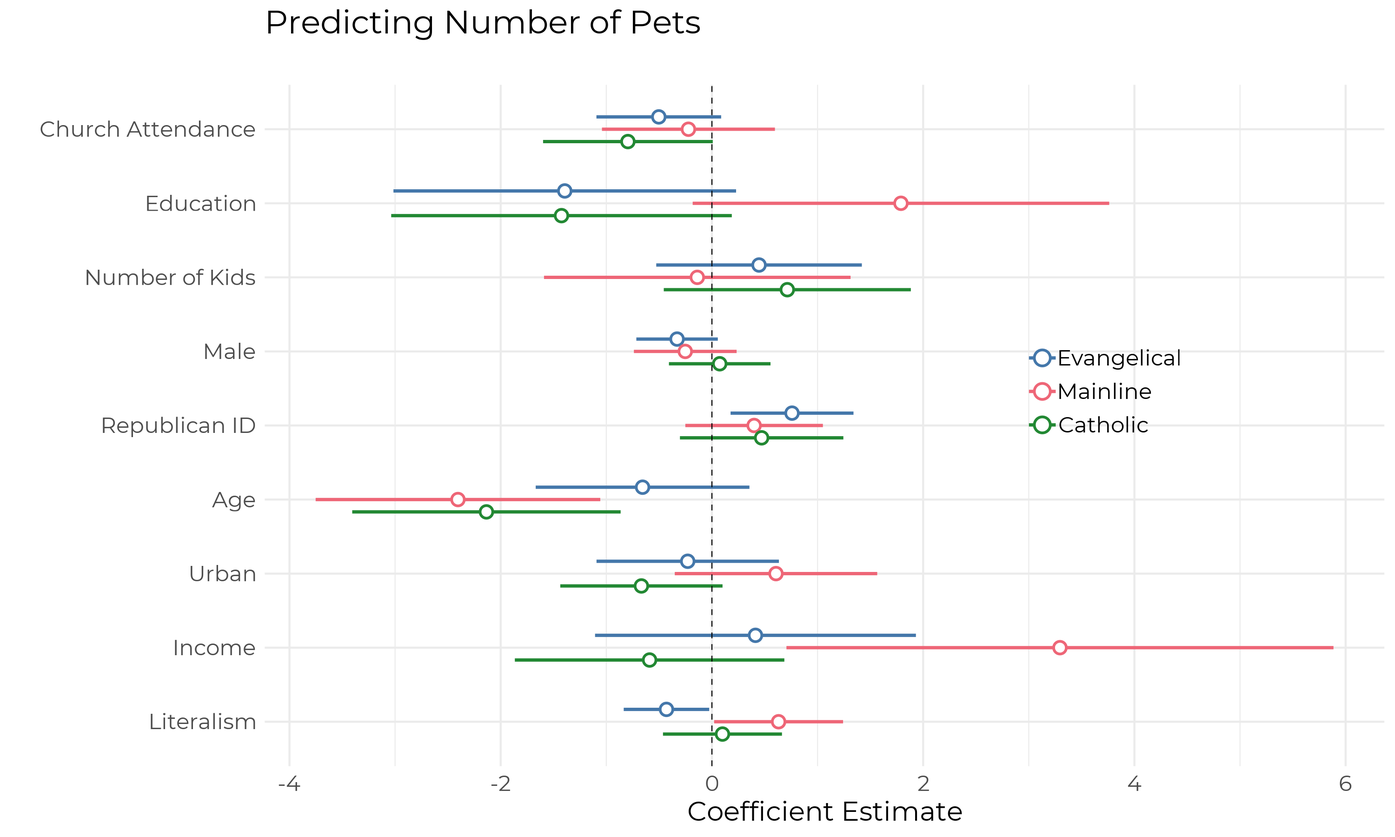
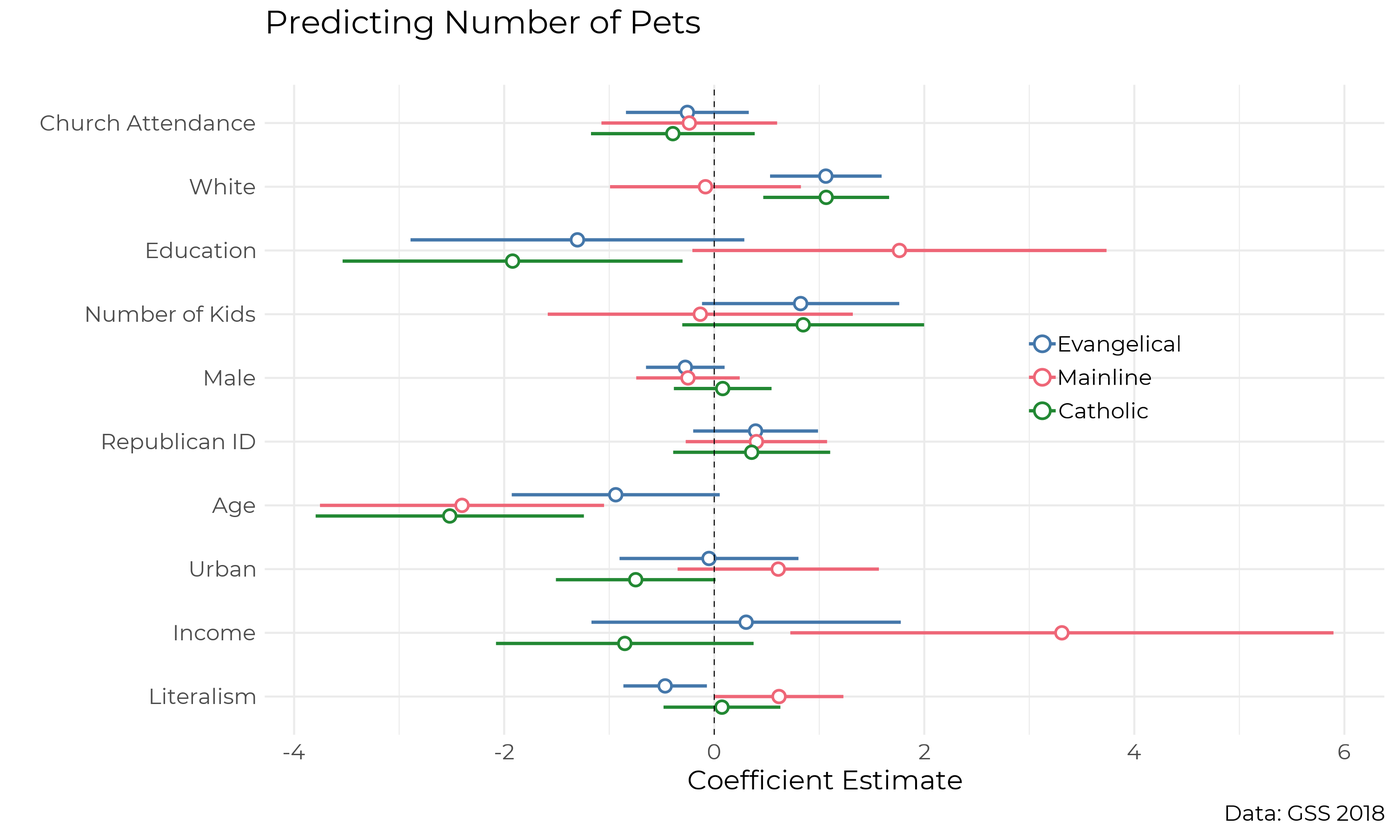
pushing updates.

diff --git a/images/fig3.htm b/images/fig3.htm
@@ -4,56 +4,59 @@
 <tr><td></td><td colspan="5" style="border-bottom: 1px solid black"></td></tr>
 <tr><td style="text-align:left"></td><td>Cat</td><td>Dog</td><td>Horse</td><td>Fish</td><td>Pig</td></tr>
 <tr><td style="text-align:left"></td><td>(1)</td><td>(2)</td><td>(3)</td><td>(4)</td><td>(5)</td></tr>
-<tr><td colspan="6" style="border-bottom: 1px solid black"></td></tr><tr><td style="text-align:left">Church Attendance</td><td>-0.903<sup>*</sup></td><td>-0.033</td><td>0.114</td><td>-0.512</td><td>-0.636</td></tr>
-<tr><td style="text-align:left"></td><td>(0.365)</td><td>(0.410)</td><td>(1.347)</td><td>(0.828)</td><td>(4.419)</td></tr>
+<tr><td colspan="6" style="border-bottom: 1px solid black"></td></tr><tr><td style="text-align:left">Church Attendance</td><td>-0.786<sup>*</sup></td><td>-0.061</td><td>-0.018</td><td>-0.362</td><td>-0.462</td></tr>
+<tr><td style="text-align:left"></td><td>(0.371)</td><td>(0.417)</td><td>(1.432)</td><td>(0.845)</td><td>(5.266)</td></tr>
 <tr><td style="text-align:left"></td><td></td><td></td><td></td><td></td><td></td></tr>
-<tr><td style="text-align:left">Male</td><td>-0.058</td><td>-0.556<sup>*</sup></td><td>-1.942<sup>*</sup></td><td>-0.079</td><td>20.494</td></tr>
-<tr><td style="text-align:left"></td><td>(0.201)</td><td>(0.228)</td><td>(0.938)</td><td>(0.465)</td><td>(10,363.820)</td></tr>
+<tr><td style="text-align:left">White</td><td>0.577</td><td>-0.136</td><td>-0.382</td><td>0.693</td><td>21.069</td></tr>
+<tr><td style="text-align:left"></td><td>(0.309)</td><td>(0.347)</td><td>(1.372)</td><td>(0.782)</td><td>(15,315.640)</td></tr>
 <tr><td style="text-align:left"></td><td></td><td></td><td></td><td></td><td></td></tr>
-<tr><td style="text-align:left">Income</td><td>0.659</td><td>1.200</td><td>8.409</td><td>6.687</td><td>191.574</td></tr>
-<tr><td style="text-align:left"></td><td>(0.644)</td><td>(0.670)</td><td>(10.072)</td><td>(3.687)</td><td>(59,818.290)</td></tr>
+<tr><td style="text-align:left">Male</td><td>-0.055</td><td>-0.558<sup>*</sup></td><td>-1.998<sup>*</sup></td><td>-0.095</td><td>20.702</td></tr>
+<tr><td style="text-align:left"></td><td>(0.201)</td><td>(0.228)</td><td>(0.969)</td><td>(0.466)</td><td>(9,301.275)</td></tr>
 <tr><td style="text-align:left"></td><td></td><td></td><td></td><td></td><td></td></tr>
-<tr><td style="text-align:left">Republican ID</td><td>0.159</td><td>0.111</td><td>3.567<sup>*</sup></td><td>1.110</td><td>1.359</td></tr>
-<tr><td style="text-align:left"></td><td>(0.317)</td><td>(0.354)</td><td>(1.518)</td><td>(0.768)</td><td>(3.235)</td></tr>
+<tr><td style="text-align:left">Income</td><td>0.542</td><td>1.229</td><td>8.065</td><td>6.758</td><td>198.136</td></tr>
+<tr><td style="text-align:left"></td><td>(0.651)</td><td>(0.675)</td><td>(9.953)</td><td>(3.767)</td><td>(55,976.260)</td></tr>
 <tr><td style="text-align:left"></td><td></td><td></td><td></td><td></td><td></td></tr>
-<tr><td style="text-align:left">Number of Kids</td><td>-0.097</td><td>0.891</td><td>5.712<sup>*</sup></td><td>1.362</td><td>-1.994</td></tr>
-<tr><td style="text-align:left"></td><td>(0.518)</td><td>(0.601)</td><td>(1.965)</td><td>(1.063)</td><td>(6.331)</td></tr>
+<tr><td style="text-align:left">Republican ID</td><td>0.051</td><td>0.132</td><td>3.611<sup>*</sup></td><td>0.947</td><td>-1.005</td></tr>
+<tr><td style="text-align:left"></td><td>(0.324)</td><td>(0.358)</td><td>(1.512)</td><td>(0.793)</td><td>(4.109)</td></tr>
 <tr><td style="text-align:left"></td><td></td><td></td><td></td><td></td><td></td></tr>
-<tr><td style="text-align:left">Age</td><td>0.273</td><td>-0.495</td><td>-4.864</td><td>-2.976<sup>*</sup></td><td>-5.249</td></tr>
-<tr><td style="text-align:left"></td><td>(0.587)</td><td>(0.666)</td><td>(3.066)</td><td>(1.489)</td><td>(6.010)</td></tr>
+<tr><td style="text-align:left">Number of Kids</td><td>-0.008</td><td>0.872</td><td>5.620<sup>*</sup></td><td>1.408</td><td>-2.560</td></tr>
+<tr><td style="text-align:left"></td><td>(0.525)</td><td>(0.603)</td><td>(1.992)</td><td>(1.075)</td><td>(7.070)</td></tr>
 <tr><td style="text-align:left"></td><td></td><td></td><td></td><td></td><td></td></tr>
-<tr><td style="text-align:left">Education</td><td>1.235</td><td>-2.364<sup>*</sup></td><td>5.047</td><td>-3.434</td><td>-5.157</td></tr>
-<tr><td style="text-align:left"></td><td>(0.775)</td><td>(0.884)</td><td>(3.595)</td><td>(1.763)</td><td>(8.512)</td></tr>
+<tr><td style="text-align:left">Age</td><td>0.157</td><td>-0.469</td><td>-4.799</td><td>-3.075<sup>*</sup></td><td>-6.201</td></tr>
+<tr><td style="text-align:left"></td><td>(0.594)</td><td>(0.669)</td><td>(3.076)</td><td>(1.501)</td><td>(6.433)</td></tr>
 <tr><td style="text-align:left"></td><td></td><td></td><td></td><td></td><td></td></tr>
-<tr><td style="text-align:left">Urban</td><td>-0.448</td><td>-0.832<sup>*</sup></td><td>-17.926</td><td>-0.129</td><td>-19.995</td></tr>
-<tr><td style="text-align:left"></td><td>(0.371)</td><td>(0.369)</td><td>(3,253.649)</td><td>(0.807)</td><td>(23,404.170)</td></tr>
+<tr><td style="text-align:left">Education</td><td>1.047</td><td>-2.325<sup>*</sup></td><td>5.170</td><td>-3.732<sup>*</sup></td><td>-9.372</td></tr>
+<tr><td style="text-align:left"></td><td>(0.788)</td><td>(0.891)</td><td>(3.631)</td><td>(1.839)</td><td>(9.994)</td></tr>
 <tr><td style="text-align:left"></td><td></td><td></td><td></td><td></td><td></td></tr>
-<tr><td style="text-align:left">Literalism</td><td>-0.503</td><td>0.279</td><td>-3.428<sup>*</sup></td><td>0.155</td><td>2.083</td></tr>
-<tr><td style="text-align:left"></td><td>(0.263)</td><td>(0.306)</td><td>(1.288)</td><td>(0.573)</td><td>(1.968)</td></tr>
+<tr><td style="text-align:left">Urban</td><td>-0.381</td><td>-0.849<sup>*</sup></td><td>-18.101</td><td>-0.032</td><td>-19.828</td></tr>
+<tr><td style="text-align:left"></td><td>(0.374)</td><td>(0.372)</td><td>(3,228.759)</td><td>(0.817)</td><td>(21,940.710)</td></tr>
 <tr><td style="text-align:left"></td><td></td><td></td><td></td><td></td><td></td></tr>
-<tr><td style="text-align:left">Mainline</td><td>0.390</td><td>-0.943<sup>*</sup></td><td>-1.368</td><td>0.171</td><td>-19.691</td></tr>
-<tr><td style="text-align:left"></td><td>(0.310)</td><td>(0.344)</td><td>(1.015)</td><td>(0.743)</td><td>(19,884.290)</td></tr>
+<tr><td style="text-align:left">Literalism</td><td>-0.481</td><td>0.277</td><td>-3.444<sup>*</sup></td><td>0.160</td><td>2.438</td></tr>
+<tr><td style="text-align:left"></td><td>(0.265)</td><td>(0.306)</td><td>(1.289)</td><td>(0.578)</td><td>(2.306)</td></tr>
 <tr><td style="text-align:left"></td><td></td><td></td><td></td><td></td><td></td></tr>
-<tr><td style="text-align:left">Black Prot.</td><td>-1.193</td><td>0.092</td><td>-16.662</td><td>0.638</td><td>-18.279</td></tr>
-<tr><td style="text-align:left"></td><td>(0.672)</td><td>(0.640)</td><td>(5,120.211)</td><td>(1.184)</td><td>(34,581.710)</td></tr>
+<tr><td style="text-align:left">Mainline</td><td>0.367</td><td>-0.936<sup>*</sup></td><td>-1.367</td><td>0.154</td><td>-20.100</td></tr>
+<tr><td style="text-align:left"></td><td>(0.311)</td><td>(0.345)</td><td>(1.015)</td><td>(0.743)</td><td>(18,910.230)</td></tr>
 <tr><td style="text-align:left"></td><td></td><td></td><td></td><td></td><td></td></tr>
-<tr><td style="text-align:left">Catholic</td><td>-0.793<sup>*</sup></td><td>0.138</td><td>-2.259</td><td>-0.797</td><td>1.290</td></tr>
-<tr><td style="text-align:left"></td><td>(0.325)</td><td>(0.392)</td><td>(1.199)</td><td>(0.845)</td><td>(1.921)</td></tr>
+<tr><td style="text-align:left">Black Prot.</td><td>-0.768</td><td>-0.008</td><td>-16.946</td><td>1.143</td><td>1.865</td></tr>
+<tr><td style="text-align:left"></td><td>(0.709)</td><td>(0.689)</td><td>(5,131.271)</td><td>(1.329)</td><td>(34,047.780)</td></tr>
 <tr><td style="text-align:left"></td><td></td><td></td><td></td><td></td><td></td></tr>
-<tr><td style="text-align:left">Jewish</td><td>-15.751</td><td>-1.246</td><td>-19.980</td><td>-13.361</td><td>-17.525</td></tr>
-<tr><td style="text-align:left"></td><td>(572.637)</td><td>(0.893)</td><td>(10,726.740)</td><td>(923.204)</td><td>(73,723.720)</td></tr>
+<tr><td style="text-align:left">Catholic</td><td>-0.760<sup>*</sup></td><td>0.131</td><td>-2.273</td><td>-0.714</td><td>1.271</td></tr>
+<tr><td style="text-align:left"></td><td>(0.327)</td><td>(0.392)</td><td>(1.202)</td><td>(0.849)</td><td>(2.075)</td></tr>
 <tr><td style="text-align:left"></td><td></td><td></td><td></td><td></td><td></td></tr>
-<tr><td style="text-align:left">Other Faith</td><td>0.330</td><td>-0.971<sup>*</sup></td><td>-20.730</td><td>1.308</td><td>-19.183</td></tr>
-<tr><td style="text-align:left"></td><td>(0.439)</td><td>(0.470)</td><td>(4,045.551)</td><td>(0.802)</td><td>(30,050.890)</td></tr>
+<tr><td style="text-align:left">Jewish</td><td>-15.765</td><td>-1.240</td><td>-19.939</td><td>-13.403</td><td>-18.039</td></tr>
+<tr><td style="text-align:left"></td><td>(575.951)</td><td>(0.893)</td><td>(10,746.680)</td><td>(918.449)</td><td>(70,574.390)</td></tr>
 <tr><td style="text-align:left"></td><td></td><td></td><td></td><td></td><td></td></tr>
-<tr><td style="text-align:left">No Religion</td><td>-0.131</td><td>-0.221</td><td>-18.558</td><td>-0.093</td><td>-20.268</td></tr>
-<tr><td style="text-align:left"></td><td>(0.306)</td><td>(0.367)</td><td>(2,124.422)</td><td>(0.670)</td><td>(13,834.440)</td></tr>
+<tr><td style="text-align:left">Other Faith</td><td>0.346</td><td>-0.972<sup>*</sup></td><td>-20.625</td><td>1.330</td><td>-20.415</td></tr>
+<tr><td style="text-align:left"></td><td>(0.442)</td><td>(0.470)</td><td>(4,076.645)</td><td>(0.807)</td><td>(28,206.320)</td></tr>
 <tr><td style="text-align:left"></td><td></td><td></td><td></td><td></td><td></td></tr>
-<tr><td style="text-align:left">Constant</td><td>-1.370</td><td>2.231<sup>*</sup></td><td>-14.593</td><td>-6.401</td><td>-211.531</td></tr>
-<tr><td style="text-align:left"></td><td>(0.839)</td><td>(0.926)</td><td>(9.975)</td><td>(3.729)</td><td>(60,709.410)</td></tr>
+<tr><td style="text-align:left">No Religion</td><td>-0.058</td><td>-0.237</td><td>-18.638</td><td>-0.031</td><td>-20.220</td></tr>
+<tr><td style="text-align:left"></td><td>(0.310)</td><td>(0.370)</td><td>(2,122.194)</td><td>(0.674)</td><td>(13,204.500)</td></tr>
+<tr><td style="text-align:left"></td><td></td><td></td><td></td><td></td><td></td></tr>
+<tr><td style="text-align:left">Constant</td><td>-1.607</td><td>2.289<sup>*</sup></td><td>-13.953</td><td>-6.833</td><td>-234.551</td></tr>
+<tr><td style="text-align:left"></td><td>(0.857)</td><td>(0.939)</td><td>(10.047)</td><td>(3.857)</td><td>(58,774.290)</td></tr>
 <tr><td style="text-align:left"></td><td></td><td></td><td></td><td></td><td></td></tr>
 <tr><td colspan="6" style="border-bottom: 1px solid black"></td></tr><tr><td style="text-align:left">Observations</td><td>491</td><td>491</td><td>491</td><td>491</td><td>491</td></tr>
-<tr><td style="text-align:left">Log Likelihood</td><td>-305.614</td><td>-253.017</td><td>-28.988</td><td>-84.706</td><td>-7.358</td></tr>
-<tr><td style="text-align:left">Akaike Inf. Crit.</td><td>643.228</td><td>538.034</td><td>89.976</td><td>201.413</td><td>46.716</td></tr>
+<tr><td style="text-align:left">Log Likelihood</td><td>-303.809</td><td>-252.940</td><td>-28.951</td><td>-84.265</td><td>-6.629</td></tr>
+<tr><td style="text-align:left">Akaike Inf. Crit.</td><td>641.618</td><td>539.880</td><td>91.901</td><td>202.529</td><td>47.259</td></tr>
 <tr><td colspan="6" style="border-bottom: 1px solid black"></td></tr><tr><td style="text-align:left"><em>Note:</em></td><td colspan="5" style="text-align:right"><sup>*</sup>p<0.05; <sup>**</sup>p<[0.**]; <sup>***</sup>p<[0.***]</td></tr>
 </table>

diff --git a/images/fig1.htm b/images/fig1.htm
@@ -3,57 +3,60 @@
 <tr><td colspan="2" style="border-bottom: 1px solid black"></td></tr><tr><td style="text-align:left"></td><td><em>Dependent variable:</em></td></tr>
 <tr><td></td><td colspan="1" style="border-bottom: 1px solid black"></td></tr>
 <tr><td style="text-align:left"></td><td>Predicting Number of Pets</td></tr>
-<tr><td colspan="2" style="border-bottom: 1px solid black"></td></tr><tr><td style="text-align:left">Church Attendance</td><td>-0.552<sup>*</sup></td></tr>
-<tr><td style="text-align:left"></td><td>(0.177)</td></tr>
+<tr><td colspan="2" style="border-bottom: 1px solid black"></td></tr><tr><td style="text-align:left">Church Attendance</td><td>-0.351<sup>*</sup></td></tr>
+<tr><td style="text-align:left"></td><td>(0.175)</td></tr>
 <tr><td style="text-align:left"></td><td></td></tr>
-<tr><td style="text-align:left">Male</td><td>-0.131</td></tr>
-<tr><td style="text-align:left"></td><td>(0.101)</td></tr>
+<tr><td style="text-align:left">White</td><td>0.786<sup>*</sup></td></tr>
+<tr><td style="text-align:left"></td><td>(0.137)</td></tr>
 <tr><td style="text-align:left"></td><td></td></tr>
-<tr><td style="text-align:left">Income</td><td>0.842<sup>*</sup></td></tr>
-<tr><td style="text-align:left"></td><td>(0.296)</td></tr>
+<tr><td style="text-align:left">Male</td><td>-0.127</td></tr>
+<tr><td style="text-align:left"></td><td>(0.100)</td></tr>
 <tr><td style="text-align:left"></td><td></td></tr>
-<tr><td style="text-align:left">Republican ID</td><td>0.591<sup>*</sup></td></tr>
+<tr><td style="text-align:left">Income</td><td>0.640<sup>*</sup></td></tr>
+<tr><td style="text-align:left"></td><td>(0.291)</td></tr>
+<tr><td style="text-align:left"></td><td></td></tr>
+<tr><td style="text-align:left">Republican ID</td><td>0.460<sup>*</sup></td></tr>
 <tr><td style="text-align:left"></td><td>(0.163)</td></tr>
 <tr><td style="text-align:left"></td><td></td></tr>
-<tr><td style="text-align:left">Number of Kids</td><td>0.711<sup>*</sup></td></tr>
-<tr><td style="text-align:left"></td><td>(0.266)</td></tr>
+<tr><td style="text-align:left">Number of Kids</td><td>0.817<sup>*</sup></td></tr>
+<tr><td style="text-align:left"></td><td>(0.262)</td></tr>
 <tr><td style="text-align:left"></td><td></td></tr>
-<tr><td style="text-align:left">Age</td><td>-1.051<sup>*</sup></td></tr>
-<tr><td style="text-align:left"></td><td>(0.282)</td></tr>
+<tr><td style="text-align:left">Age</td><td>-1.199<sup>*</sup></td></tr>
+<tr><td style="text-align:left"></td><td>(0.281)</td></tr>
 <tr><td style="text-align:left"></td><td></td></tr>
-<tr><td style="text-align:left">Education</td><td>-0.889<sup>*</sup></td></tr>
-<tr><td style="text-align:left"></td><td>(0.378)</td></tr>
+<tr><td style="text-align:left">Education</td><td>-0.947<sup>*</sup></td></tr>
+<tr><td style="text-align:left"></td><td>(0.376)</td></tr>
 <tr><td style="text-align:left"></td><td></td></tr>
-<tr><td style="text-align:left">Urban</td><td>-0.092</td></tr>
-<tr><td style="text-align:left"></td><td>(0.174)</td></tr>
+<tr><td style="text-align:left">Urban</td><td>-0.059</td></tr>
+<tr><td style="text-align:left"></td><td>(0.173)</td></tr>
 <tr><td style="text-align:left"></td><td></td></tr>
-<tr><td style="text-align:left">Literalism</td><td>-0.072</td></tr>
-<tr><td style="text-align:left"></td><td>(0.126)</td></tr>
+<tr><td style="text-align:left">Literalism</td><td>-0.004</td></tr>
+<tr><td style="text-align:left"></td><td>(0.125)</td></tr>
 <tr><td style="text-align:left"></td><td></td></tr>
-<tr><td style="text-align:left">Mainline</td><td>0.191</td></tr>
-<tr><td style="text-align:left"></td><td>(0.167)</td></tr>
+<tr><td style="text-align:left">Mainline</td><td>0.179</td></tr>
+<tr><td style="text-align:left"></td><td>(0.163)</td></tr>
 <tr><td style="text-align:left"></td><td></td></tr>
-<tr><td style="text-align:left">Black Prot.</td><td>-0.683<sup>*</sup></td></tr>
-<tr><td style="text-align:left"></td><td>(0.236)</td></tr>
+<tr><td style="text-align:left">Black Prot.</td><td>-0.096</td></tr>
+<tr><td style="text-align:left"></td><td>(0.249)</td></tr>
 <tr><td style="text-align:left"></td><td></td></tr>
-<tr><td style="text-align:left">Catholic</td><td>-0.348<sup>*</sup></td></tr>
-<tr><td style="text-align:left"></td><td>(0.156)</td></tr>
+<tr><td style="text-align:left">Catholic</td><td>-0.290</td></tr>
+<tr><td style="text-align:left"></td><td>(0.154)</td></tr>
 <tr><td style="text-align:left"></td><td></td></tr>
-<tr><td style="text-align:left">Jewish</td><td>-0.283</td></tr>
-<tr><td style="text-align:left"></td><td>(0.435)</td></tr>
+<tr><td style="text-align:left">Jewish</td><td>-0.325</td></tr>
+<tr><td style="text-align:left"></td><td>(0.428)</td></tr>
 <tr><td style="text-align:left"></td><td></td></tr>
-<tr><td style="text-align:left">Other Faith</td><td>0.069</td></tr>
-<tr><td style="text-align:left"></td><td>(0.232)</td></tr>
+<tr><td style="text-align:left">Other Faith</td><td>0.063</td></tr>
+<tr><td style="text-align:left"></td><td>(0.230)</td></tr>
 <tr><td style="text-align:left"></td><td></td></tr>
-<tr><td style="text-align:left">No Religion</td><td>-0.177</td></tr>
-<tr><td style="text-align:left"></td><td>(0.162)</td></tr>
+<tr><td style="text-align:left">No Religion</td><td>-0.051</td></tr>
+<tr><td style="text-align:left"></td><td>(0.159)</td></tr>
 <tr><td style="text-align:left"></td><td></td></tr>
-<tr><td style="text-align:left">Constant</td><td>0.878<sup>*</sup></td></tr>
-<tr><td style="text-align:left"></td><td>(0.386)</td></tr>
+<tr><td style="text-align:left">Constant</td><td>0.434</td></tr>
+<tr><td style="text-align:left"></td><td>(0.383)</td></tr>
 <tr><td style="text-align:left"></td><td></td></tr>
 <tr><td colspan="2" style="border-bottom: 1px solid black"></td></tr><tr><td style="text-align:left">Observations</td><td>845</td></tr>
-<tr><td style="text-align:left">Log Likelihood</td><td>-1,451.647</td></tr>
-<tr><td style="text-align:left">theta</td><td>0.721<sup>*</sup> (0.059)</td></tr>
-<tr><td style="text-align:left">Akaike Inf. Crit.</td><td>2,935.294</td></tr>
+<tr><td style="text-align:left">Log Likelihood</td><td>-1,436.245</td></tr>
+<tr><td style="text-align:left">theta</td><td>0.778<sup>*</sup> (0.065)</td></tr>
+<tr><td style="text-align:left">Akaike Inf. Crit.</td><td>2,906.490</td></tr>
 <tr><td colspan="2" style="border-bottom: 1px solid black"></td></tr><tr><td style="text-align:left"><em>Note:</em></td><td style="text-align:right"><sup>*</sup>p<0.05; <sup>**</sup>p<[0.**]; <sup>***</sup>p<[0.***]</td></tr>
 </table>

diff --git a/images/fig4.htm b/images/fig4.htm
@@ -3,51 +3,54 @@
 <tr><td colspan="2" style="border-bottom: 1px solid black"></td></tr><tr><td style="text-align:left"></td><td><em>Dependent variable:</em></td></tr>
 <tr><td></td><td colspan="1" style="border-bottom: 1px solid black"></td></tr>
 <tr><td style="text-align:left"></td><td>Predicting Number of Pets</td></tr>
-<tr><td colspan="2" style="border-bottom: 1px solid black"></td></tr><tr><td style="text-align:left">Church Attendance</td><td>-0.094<sup>*</sup></td></tr>
+<tr><td colspan="2" style="border-bottom: 1px solid black"></td></tr><tr><td style="text-align:left">Church Attendance</td><td>-0.076<sup>*</sup></td></tr>
 <tr><td style="text-align:left"></td><td>(0.037)</td></tr>
 <tr><td style="text-align:left"></td><td></td></tr>
-<tr><td style="text-align:left">Mainline</td><td>-0.107</td></tr>
-<tr><td style="text-align:left"></td><td>(0.300)</td></tr>
+<tr><td style="text-align:left">Mainline</td><td>-0.162</td></tr>
+<tr><td style="text-align:left"></td><td>(0.295)</td></tr>
 <tr><td style="text-align:left"></td><td></td></tr>
-<tr><td style="text-align:left">Catholic</td><td>-0.359</td></tr>
-<tr><td style="text-align:left"></td><td>(0.256)</td></tr>
+<tr><td style="text-align:left">Catholic</td><td>-0.355</td></tr>
+<tr><td style="text-align:left"></td><td>(0.254)</td></tr>
 <tr><td style="text-align:left"></td><td></td></tr>
-<tr><td style="text-align:left">Male</td><td>-0.151</td></tr>
-<tr><td style="text-align:left"></td><td>(0.131)</td></tr>
+<tr><td style="text-align:left">White</td><td>0.716<sup>*</sup></td></tr>
+<tr><td style="text-align:left"></td><td>(0.183)</td></tr>
 <tr><td style="text-align:left"></td><td></td></tr>
-<tr><td style="text-align:left">Income</td><td>0.021</td></tr>
-<tr><td style="text-align:left"></td><td>(0.423)</td></tr>
+<tr><td style="text-align:left">Male</td><td>-0.145</td></tr>
+<tr><td style="text-align:left"></td><td>(0.129)</td></tr>
 <tr><td style="text-align:left"></td><td></td></tr>
-<tr><td style="text-align:left">Republican ID</td><td>0.548<sup>*</sup></td></tr>
-<tr><td style="text-align:left"></td><td>(0.197)</td></tr>
+<tr><td style="text-align:left">Income</td><td>-0.166</td></tr>
+<tr><td style="text-align:left"></td><td>(0.417)</td></tr>
 <tr><td style="text-align:left"></td><td></td></tr>
-<tr><td style="text-align:left">Number of Kids</td><td>0.440</td></tr>
-<tr><td style="text-align:left"></td><td>(0.347)</td></tr>
+<tr><td style="text-align:left">Republican ID</td><td>0.443<sup>*</sup></td></tr>
+<tr><td style="text-align:left"></td><td>(0.200)</td></tr>
 <tr><td style="text-align:left"></td><td></td></tr>
-<tr><td style="text-align:left">Age</td><td>-1.444<sup>*</sup></td></tr>
-<tr><td style="text-align:left"></td><td>(0.351)</td></tr>
+<tr><td style="text-align:left">Number of Kids</td><td>0.570</td></tr>
+<tr><td style="text-align:left"></td><td>(0.344)</td></tr>
 <tr><td style="text-align:left"></td><td></td></tr>
-<tr><td style="text-align:left">Education</td><td>-0.813</td></tr>
+<tr><td style="text-align:left">Age</td><td>-1.568<sup>*</sup></td></tr>
+<tr><td style="text-align:left"></td><td>(0.354)</td></tr>
+<tr><td style="text-align:left"></td><td></td></tr>
+<tr><td style="text-align:left">Education</td><td>-0.833</td></tr>
 <tr><td style="text-align:left"></td><td>(0.506)</td></tr>
 <tr><td style="text-align:left"></td><td></td></tr>
-<tr><td style="text-align:left">Urban</td><td>-0.048</td></tr>
-<tr><td style="text-align:left"></td><td>(0.248)</td></tr>
+<tr><td style="text-align:left">Urban</td><td>-0.032</td></tr>
+<tr><td style="text-align:left"></td><td>(0.247)</td></tr>
 <tr><td style="text-align:left"></td><td></td></tr>
-<tr><td style="text-align:left">Literalism</td><td>-0.033</td></tr>
-<tr><td style="text-align:left"></td><td>(0.150)</td></tr>
+<tr><td style="text-align:left">Literalism</td><td>-0.002</td></tr>
+<tr><td style="text-align:left"></td><td>(0.149)</td></tr>
 <tr><td style="text-align:left"></td><td></td></tr>
-<tr><td style="text-align:left">Attend*Mainline</td><td>0.079</td></tr>
-<tr><td style="text-align:left"></td><td>(0.063)</td></tr>
+<tr><td style="text-align:left">Attend*Mainline</td><td>0.090</td></tr>
+<tr><td style="text-align:left"></td><td>(0.062)</td></tr>
 <tr><td style="text-align:left"></td><td></td></tr>
-<tr><td style="text-align:left">Attend*Catholic</td><td>-0.013</td></tr>
+<tr><td style="text-align:left">Attend*Catholic</td><td>0.002</td></tr>
 <tr><td style="text-align:left"></td><td>(0.058)</td></tr>
 <tr><td style="text-align:left"></td><td></td></tr>
-<tr><td style="text-align:left">Constant</td><td>2.002<sup>*</sup></td></tr>
-<tr><td style="text-align:left"></td><td>(0.486)</td></tr>
+<tr><td style="text-align:left">Constant</td><td>1.587<sup>*</sup></td></tr>
+<tr><td style="text-align:left"></td><td>(0.487)</td></tr>
 <tr><td style="text-align:left"></td><td></td></tr>
 <tr><td colspan="2" style="border-bottom: 1px solid black"></td></tr><tr><td style="text-align:left">Observations</td><td>495</td></tr>
-<tr><td style="text-align:left">Log Likelihood</td><td>-862.055</td></tr>
-<tr><td style="text-align:left">theta</td><td>0.748<sup>*</sup> (0.078)</td></tr>
-<tr><td style="text-align:left">Akaike Inf. Crit.</td><td>1,752.110</td></tr>
+<tr><td style="text-align:left">Log Likelihood</td><td>-854.626</td></tr>
+<tr><td style="text-align:left">theta</td><td>0.791<sup>*</sup> (0.084)</td></tr>
+<tr><td style="text-align:left">Akaike Inf. Crit.</td><td>1,739.252</td></tr>
 <tr><td colspan="2" style="border-bottom: 1px solid black"></td></tr><tr><td style="text-align:left"><em>Note:</em></td><td style="text-align:right"><sup>*</sup>p<0.05; <sup>**</sup>p<[0.**]; <sup>***</sup>p<[0.***]</td></tr>
 </table>

diff --git a/images/fig2.htm b/images/fig2.htm
@@ -8,31 +8,31 @@
 <tr><td colspan="4" style="border-bottom: 1px solid black"></td></tr><tr><td style="text-align:left">Church Attendance</td><td>-0.503</td><td>-0.222</td><td>-0.795</td></tr>
 <tr><td style="text-align:left"></td><td>(0.301)</td><td>(0.418)</td><td>(0.410)</td></tr>
 <tr><td style="text-align:left"></td><td></td><td></td><td></td></tr>
-<tr><td style="text-align:left">Male</td><td>-0.330</td><td>-0.252</td><td>0.074</td></tr>
+<tr><td style="text-align:left">White</td><td>-0.330</td><td>-0.252</td><td>0.074</td></tr>
 <tr><td style="text-align:left"></td><td>(0.197)</td><td>(0.248)</td><td>(0.245)</td></tr>
 <tr><td style="text-align:left"></td><td></td><td></td><td></td></tr>
-<tr><td style="text-align:left">Income</td><td>0.412</td><td>3.295<sup>*</sup></td><td>-0.590</td></tr>
+<tr><td style="text-align:left">Male</td><td>0.412</td><td>3.295<sup>*</sup></td><td>-0.590</td></tr>
 <tr><td style="text-align:left"></td><td>(0.775)</td><td>(1.321)</td><td>(0.651)</td></tr>
 <tr><td style="text-align:left"></td><td></td><td></td><td></td></tr>
-<tr><td style="text-align:left">Republican ID</td><td>0.759<sup>*</sup></td><td>0.400</td><td>0.471</td></tr>
+<tr><td style="text-align:left">Income</td><td>0.759<sup>*</sup></td><td>0.400</td><td>0.471</td></tr>
 <tr><td style="text-align:left"></td><td>(0.297)</td><td>(0.332)</td><td>(0.395)</td></tr>
 <tr><td style="text-align:left"></td><td></td><td></td><td></td></tr>
-<tr><td style="text-align:left">Number of Kids</td><td>0.446</td><td>-0.138</td><td>0.714</td></tr>
+<tr><td style="text-align:left">Republican ID</td><td>0.446</td><td>-0.138</td><td>0.714</td></tr>
 <tr><td style="text-align:left"></td><td>(0.497)</td><td>(0.741)</td><td>(0.597)</td></tr>
 <tr><td style="text-align:left"></td><td></td><td></td><td></td></tr>
-<tr><td style="text-align:left">Age</td><td>-0.657</td><td>-2.404<sup>*</sup></td><td>-2.135<sup>*</sup></td></tr>
+<tr><td style="text-align:left">Number of Kids</td><td>-0.657</td><td>-2.404<sup>*</sup></td><td>-2.135<sup>*</sup></td></tr>
 <tr><td style="text-align:left"></td><td>(0.516)</td><td>(0.688)</td><td>(0.648)</td></tr>
 <tr><td style="text-align:left"></td><td></td><td></td><td></td></tr>
-<tr><td style="text-align:left">Education</td><td>-1.393</td><td>1.790</td><td>-1.424</td></tr>
+<tr><td style="text-align:left">Age</td><td>-1.393</td><td>1.790</td><td>-1.424</td></tr>
 <tr><td style="text-align:left"></td><td>(0.828)</td><td>(1.006)</td><td>(0.823)</td></tr>
 <tr><td style="text-align:left"></td><td></td><td></td><td></td></tr>
-<tr><td style="text-align:left">Urban</td><td>-0.229</td><td>0.607</td><td>-0.668</td></tr>
+<tr><td style="text-align:left">Education</td><td>-0.229</td><td>0.607</td><td>-0.668</td></tr>
 <tr><td style="text-align:left"></td><td>(0.441)</td><td>(0.489)</td><td>(0.392)</td></tr>
 <tr><td style="text-align:left"></td><td></td><td></td><td></td></tr>
-<tr><td style="text-align:left">Literalism</td><td>-0.430<sup>*</sup></td><td>0.631<sup>*</sup></td><td>0.100</td></tr>
+<tr><td style="text-align:left">Urban</td><td>-0.430<sup>*</sup></td><td>0.631<sup>*</sup></td><td>0.100</td></tr>
 <tr><td style="text-align:left"></td><td>(0.207)</td><td>(0.311)</td><td>(0.287)</td></tr>
 <tr><td style="text-align:left"></td><td></td><td></td><td></td></tr>
-<tr><td style="text-align:left">Constant</td><td>1.577<sup>*</sup></td><td>-2.613</td><td>2.816<sup>*</sup></td></tr>
+<tr><td style="text-align:left">Literalism</td><td>1.577<sup>*</sup></td><td>-2.613</td><td>2.816<sup>*</sup></td></tr>
 <tr><td style="text-align:left"></td><td>(0.740)</td><td>(1.490)</td><td>(0.772)</td></tr>
 <tr><td style="text-align:left"></td><td></td><td></td><td></td></tr>
 <tr><td colspan="4" style="border-bottom: 1px solid black"></td></tr><tr><td style="text-align:left">Observations</td><td>215</td><td>112</td><td>168</td></tr>
